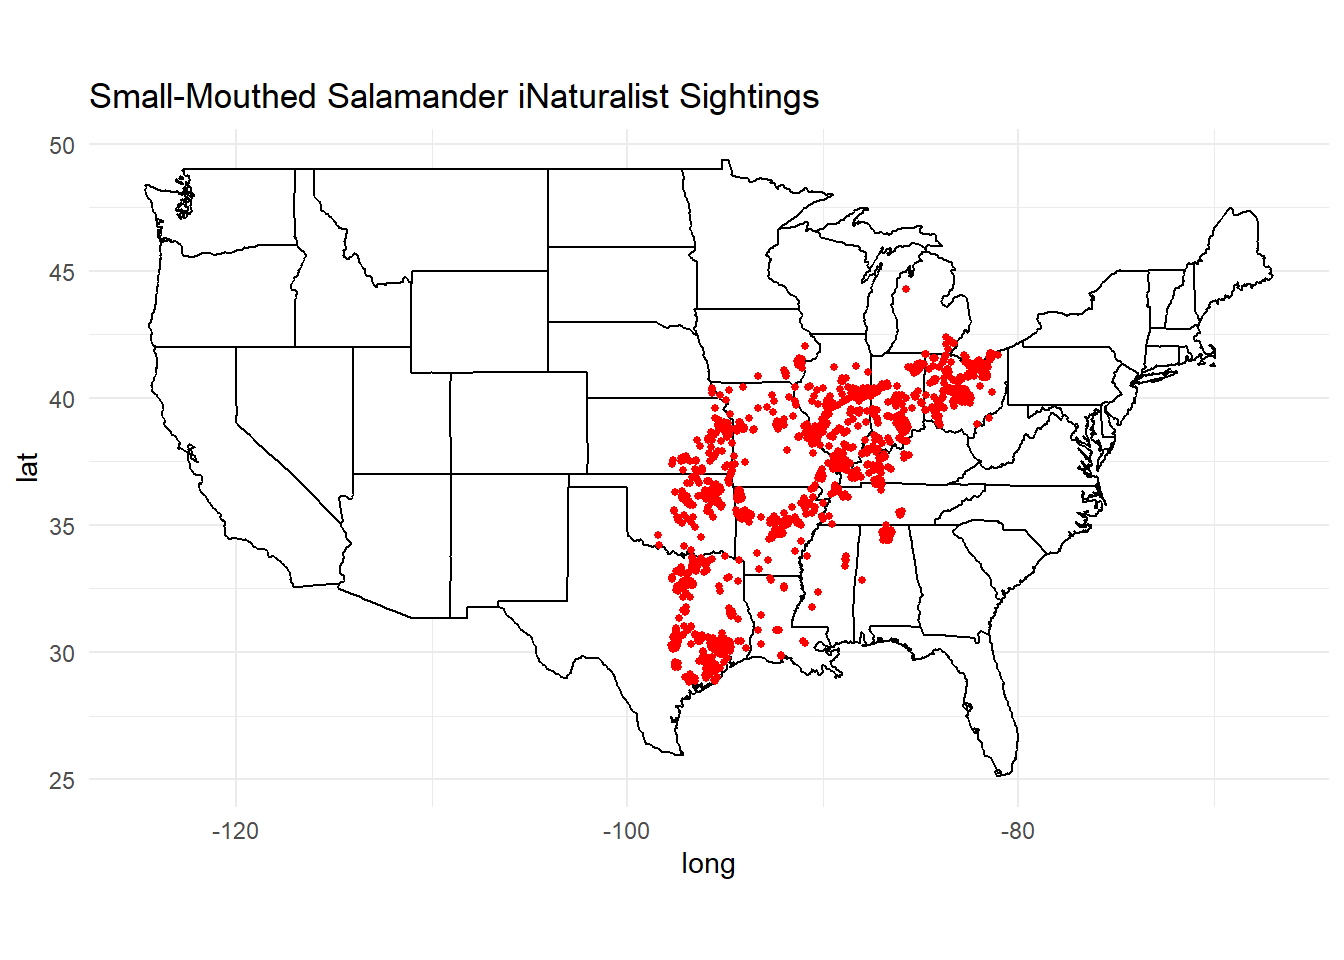
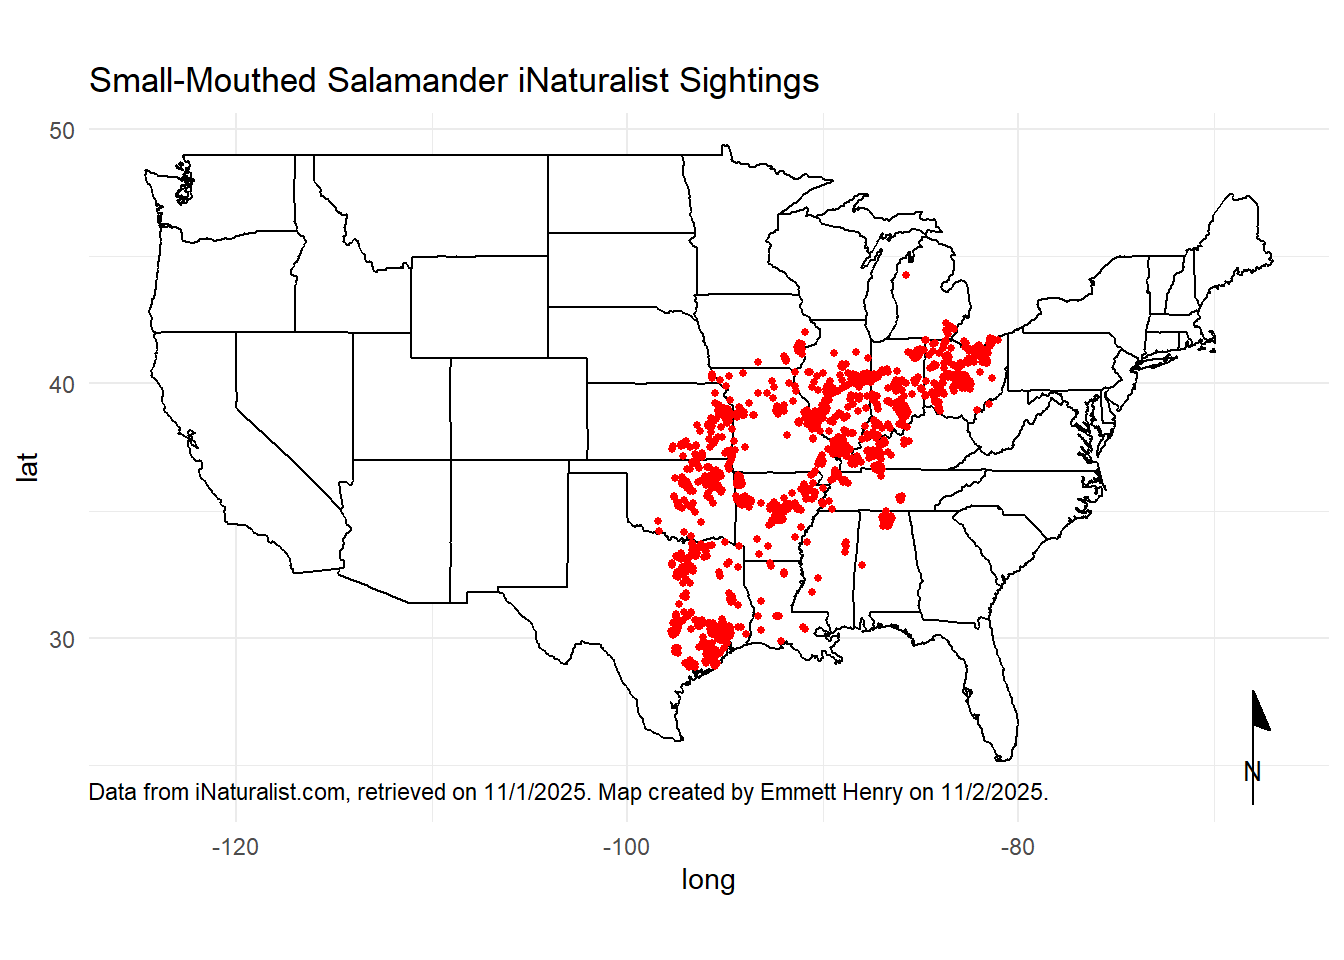
Add files via upload
added north arrow and map annotation

diff --git a/docs/small-mouth-salamander-analysis.html b/docs/small-mouth-salamander-analysis.html
@@ -363,6 +363,7 @@ library(ggplot2)
 library(tmap)
 library(sf)
 library(stringr)
+library(ggspatial)
 
 salamanders &lt;- read.csv(&quot;salamander_data_cleaned_CSV.csv&quot;)</code></pre>
 </div>
@@ -434,7 +435,11 @@ ggplot() +
   geom_point(data = salamanders, aes(x = longitude, y = latitude), color = &quot;red&quot;, size = 1) +
   coord_fixed(1.3) + # aspect ratio
   theme_minimal() +
-  ggtitle(&quot;Small-Mouthed Salamander iNaturalist Sightings&quot;)</code></pre>
+  ggtitle(&quot;Small-Mouthed Salamander iNaturalist Sightings&quot;) +
+  annotate(&quot;text&quot;, x = -103, y = 24, label = &quot;Data from iNaturalist.com, retrieved on 11/1/2025. Map created by Emmett Henry on 11/2/2025.&quot;, color = &quot;black&quot;, size = 3) +
+  annotation_north_arrow(
+    location = &quot;br&quot;, # bottom right
+    style = north_arrow_minimal )</code></pre>
 <p><img src="small-mouth-salamander-analysis_files/figure-html/unnamed-chunk-3-1.png" width="672" /></p>
 </div>
 <div id="results" class="section level1">
